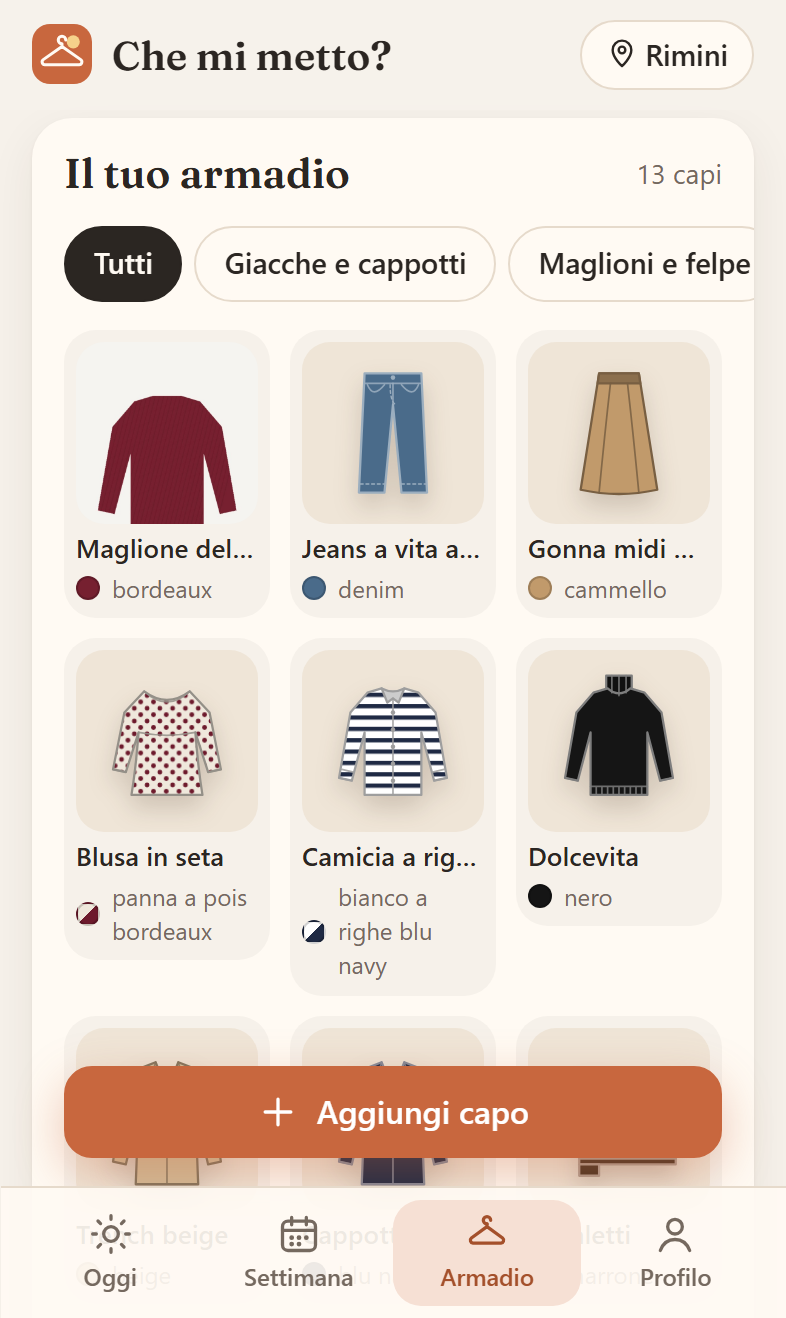
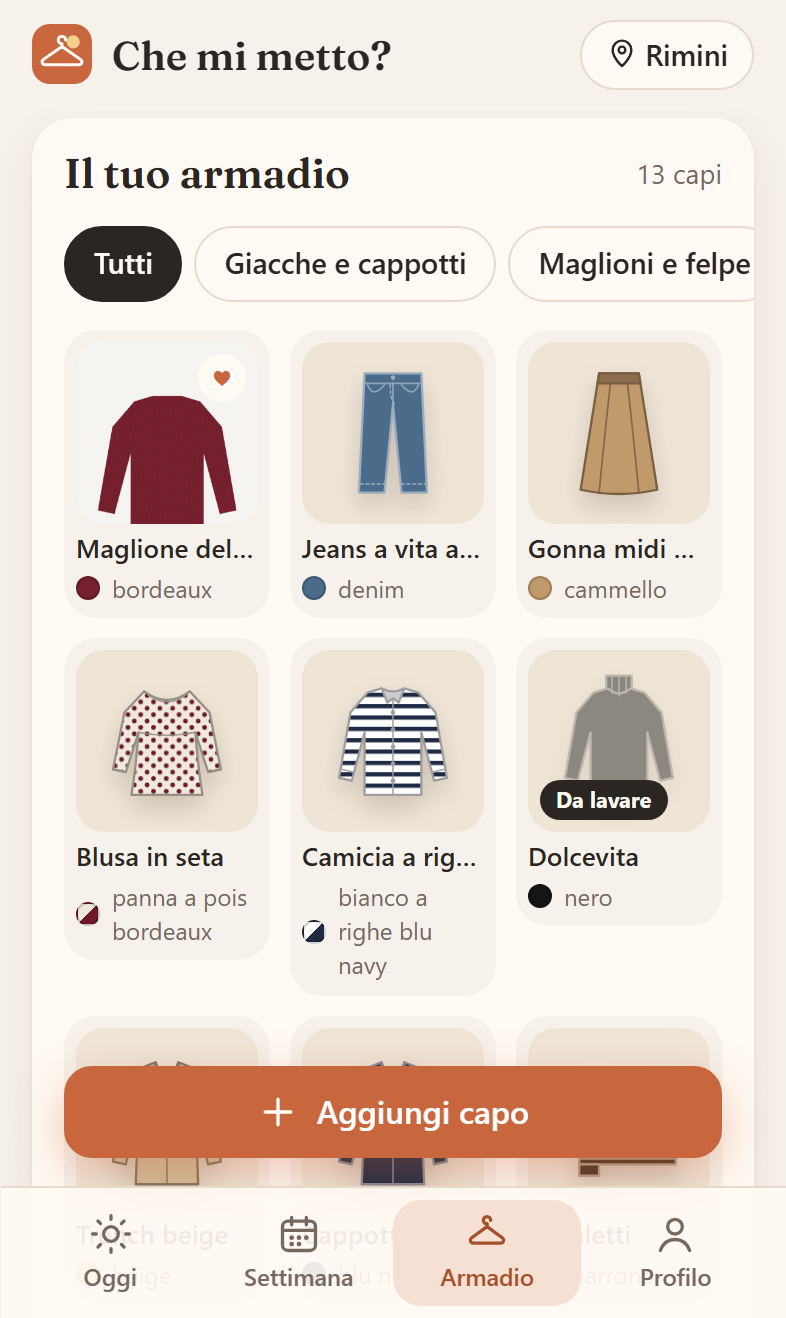
Documentazione: ispirazioni dai progetti open source e anteprime
- docs/ISPIRAZIONI.md: otto app open source studiate, licenze e idee adottate
- README aggiornato con le nuove regole del motore e le tre idee
- anteprime rigenerate

Changed region(s): [[0.6718, 0.4977, 0.855, 0.6222], [0.2748, 0.28, 0.3053, 0.3111]]

diff --git a/e2e/screenshot.spec.ts b/e2e/screenshot.spec.ts
@@ -36,12 +36,12 @@ const BACKUP = {
   esportato: `${OGGI}T09:00:00.000Z`,
   profilo: { genere: 'donna', sensibilita: 'normale', posizione: { nome: 'Rimini', lat: 44.06, lon: 12.57, origine: 'ricerca' } },
   capi: [
-    capo('maglione', '#762030', 'Maglione della nonna', ['casual', 'lavoro', 'appuntamento'], FOTO),
+    { ...capo('maglione', '#762030', 'Maglione della nonna', ['casual', 'lavoro', 'appuntamento'], FOTO), preferito: true, usi: 4 },
     capo('jeans', '#4a6b8a', 'Jeans a vita alta'),
     capo('gonna-lunga', '#c19a6b', 'Gonna midi plissé'),
     capo('blusa', '#efe8dc', 'Blusa in seta', undefined, undefined, { fantasia: 'pois', colore2: '#6d1a2c' }),
     capo('camicia', '#ffffff', 'Camicia a righe', ['casual', 'lavoro', 'aperitivo'], undefined, { fantasia: 'righe', colore2: '#1f2a44' }),
-    capo('dolcevita', '#151515'),
+    { ...capo('dolcevita', '#151515'), daLavare: true },
     capo('trench', '#d2bc98', 'Trench beige'),
     capo('cappotto', '#1f2a44'),
     capo('stivaletti', '#6b4a32'),
@@ -56,12 +56,12 @@ const BACKUP = {
   ],
 };
 
-async function foto(page: Page, nome: string) {
+async function foto(page: Page, nome: string, intera = false) {
   // Niente evidenziazioni rimaste dall'ultimo tocco.
   await page.evaluate(() => (document.activeElement as HTMLElement | null)?.blur());
   await page.mouse.move(0, 0);
   await page.waitForTimeout(300);
-  await page.screenshot({ path: `${CARTELLA}${nome}.png` });
+  await page.screenshot({ path: `${CARTELLA}${nome}.png`, fullPage: intera });
 }
 
 /** Porta l'elemento in cima allo schermo, appena sotto la testata. */
@@ -96,7 +96,7 @@ test('anteprime per il README', async ({ page }) => {
   await page.evaluate(() => localStorage.setItem('banner-installa-chiuso', '1'));
   await page.reload();
   await page.getByRole('heading', { name: 'Outfit per oggi' }).waitFor();
-  await mostraDallAlto(page, '.outfit');
+  await mostraDallAlto(page, '.idee');
   await foto(page, '10-idee-generiche');
 
   await caricaBackup(page);
@@ -108,7 +108,7 @@ test('anteprime per il README', async ({ page }) => {
   await page.getByRole('heading', { name: 'Outfit per oggi' }).waitFor();
   await foto(page, '02-oggi');
 
-  await mostraDallAlto(page, '.outfit');
+  await mostraDallAlto(page, '.idee');
   await foto(page, '03-outfit-armadio');
 
   await page.getByRole('link', { name: 'Settimana' }).click();
@@ -135,5 +135,5 @@ test('galleria delle sagome', async ({ page }) => {
   await page.setViewportSize({ width: 393, height: 820 });
   await page.goto('./galleria.html');
   await page.locator('svg').first().waitFor();
-  await foto(page, '09-sagome');
+  await foto(page, '09-sagome', true);
 });

diff --git a/README.md b/README.md
@@ -47,7 +47,12 @@ iPhone, senza passare dall'App Store.
 - 🎨 **Sagome disegnate a mano**: senza foto ogni capo è una sagoma SVG con il suo colore e, se vuoi, una fantasia
   (righe, quadri, pois, fiori) con un secondo colore. Nelle idee generiche l'app aggiunge da sola un capo fantasia
   adatto a stagione e occasione: fiori in primavera, quadri in autunno, niente fantasie in palestra.
-- 🔄 **"Altra idea"** per avere alternative, **sensibilità al freddo** personale (freddoloso / nella media / caloroso).
+- 🔄 **Tre idee diverse da sfogliare** per ogni giornata e ogni impegno ("La più adatta", "Più elegante", "Con fantasia"…),
+  più il pulsante **"Altre idee"**. Le idee vengono scelte perché si somiglino il meno possibile.
+- 👕 **Oltre 60 tipi di capi** per uomo e donna, dal gilet al parka, dalla tuta intera ai pantaloni palazzo, ognuno con un
+  livello di **formalità**: nello stesso outfit non finiscono mai capi che stonano.
+- ♥ **Preferiti, "da lavare" e "Lo metto oggi"**: i preferiti escono più spesso, i capi in lavatrice no, e quello che hai
+  messo oggi non te lo ripropone domani. **Sensibilità al freddo** personale (freddoloso / nella media / caloroso).
 - 📴 **Funziona offline** con le ultime previsioni salvate, **tema chiaro e scuro**, interfaccia pensata per il pollice.
 - 🔒 **Privacy**: nessun account e nessun server. Profilo, foto e impegni restano sul telefono; backup e ripristino con un
   file.
@@ -64,20 +69,26 @@ test.
    |---|---|---|
    | Gelo | < 3° | piumino, maglione, sciarpa, berretto, guanti |
    | Freddo | 3-9° | cappotto e maglione |
-   | Fresco | 9-15° | giacca o trench, a volte un maglioncino |
-   | Mite | 15-20° | strati leggeri, giacca per la sera |
+   | Fresco | 9-15° | felpa o maglione e una giacca |
+   | Mite | 15-20° | giacca leggera fino a 18°, maniche lunghe; giacca per la sera |
    | Tiepido | 20-25° | maniche corte o camicia |
    | Caldo | 25-30° | lino, gonne, bermuda, sandali |
    | Torrido | ≥ 30° | il minimo indispensabile, colori chiari |
 
-2. La fascia dice quali capi sono adatti per ogni parte dell'outfit; l'**occasione** li ordina per preferenza.
-3. **Pioggia, neve, vento, sole e sbalzi** di temperatura aggiungono correzioni: capi impermeabili, scarpe chiuse, ombrello,
-   occhiali, uno strato da togliere.
-4. Con l'**armadio** ogni capo riceve un punteggio (adatto all'occasione, ripara dalla pioggia, sta bene con i colori già
-   scelti); senza armadio si usa una **palette di stagione**, con al massimo un capo **fantasia** per outfit e un secondo
-   colore che stacca dal fondo.
-5. Ogni consiglio arriva con il **perché**: *"Percepiti 8°: fa freddo. Pioggia probabile (80%): capi che riparano, scarpe
+   Regole fisse: **maglione o felpa sotto i 15°**, **giacca fino a 18°**, **maniche corte da sole solo sopra i 18°**.
+2. La fascia dice quali capi sono adatti per ogni parte dell'outfit; l'**occasione** li ordina per preferenza. Ogni capo ha
+   una **formalità da 1 a 5** e non può allontanarsi di più di due gradini dagli altri capi scelti.
+3. **Pioggia, neve, vento, sole e sbalzi** di temperatura aggiungono correzioni: capi impermeabili, scarpe chiuse, ombrello
+   (pieghevole già dal 25% di pioggia), niente bermuda con il vento forte, occhiali, uno strato da togliere.
+4. Con l'**armadio** ogni capo riceve un punteggio: adatto all'occasione, ripara dalla pioggia, sta bene con i colori già
+   scelti, formalità coerente, preferito, non messo ieri; i capi da lavare sono esclusi. Senza armadio si usa una **palette
+   di stagione**, con al massimo un capo **fantasia** per outfit e un secondo colore che stacca dal fondo.
+5. Il motore genera nove varianti e ne tiene **tre il più possibile diverse** (somiglianza di Jaccard tra capi e colori).
+6. Ogni consiglio arriva con il **perché**: *"Percepiti 8°: fa freddo. Pioggia probabile (80%): capi che riparano, scarpe
    chiuse e ombrello."*
+
+Prima di scriverlo ho studiato il codice di otto app open source di outfit e armadio digitale: cosa ho imparato da ciascuna,
+con le licenze, è in [docs/ISPIRAZIONI.md](docs/ISPIRAZIONI.md).
 
 <p align="center">
   <img src="docs/screenshots/10-idee-generiche.png" width="24%" alt="Idea di outfit senza armadio, con un capo a fantasia" />
@@ -161,6 +172,8 @@ Ogni push su `main` passa dalla CI; se il repository è pubblico, il workflow
 - Dati meteo: [Open-Meteo.com](https://open-meteo.com/) (CC BY 4.0)
 - Nomi dei luoghi: © [OpenStreetMap](https://www.openstreetmap.org/copyright) contributors
 - Font: [Fraunces](https://fonts.google.com/specimen/Fraunces) (SIL Open Font License)
+- Idee per il motore da progetti open source, senza riusarne il codice: elenco e licenze in
+  [docs/ISPIRAZIONI.md](docs/ISPIRAZIONI.md)
 
 ## English summary
 
@@ -174,6 +187,10 @@ the day** (work, date, cocktails, formal event, gym) and, optionally, **your own
   type, colour and pattern (stripes, checks, polka dots, florals); hand-drawn SVG silhouettes take the item's colours and
   pattern when there is no photo.
 - Each event gets an outfit computed on the forecast **for that hour**; the gym gets a "pack in your bag" list.
+- **Three swipeable, deliberately different ideas** per day and per event: nine variants are generated and the three with
+  the lowest Jaccard similarity are kept. Each of 60+ garment types has a 1–5 **formality** level to keep outfits coherent.
+- Wardrobe extras inspired by open-source projects (see [docs/ISPIRAZIONI.md](docs/ISPIRAZIONI.md)): favourites, "in the
+  laundry" items excluded, and an "I'm wearing it today" button that tracks wear count and avoids repeats.
 - Privacy by design: no account, no server, everything stays in IndexedDB on the phone, with JSON backup/restore.
 - Works offline, light/dark theme, mobile-first UI tested on WebKit (Safari engine) with an iPhone viewport.
 - Stack: React 19, TypeScript, Vite, vite-plugin-pwa, Dexie, Vitest, Testing Library, Playwright, GitHub Actions, GitHub

diff --git a/docs/ISPIRAZIONI.md b/docs/ISPIRAZIONI.md
@@ -1,0 +1,40 @@
+# Da dove ho preso spunto
+
+Prima di scrivere il motore ho studiato il codice di alcune app open source che consigliano cosa indossare o gestiscono un
+armadio digitale. **Non ho copiato codice**: ho letto come ragionano e ho riscritto da zero, in TypeScript, le idee che mi
+sembravano più sensate. Le licenze qui sotto dicono cosa si può riusare; per i progetti AGPL o senza licenza ho preso solo
+spunti di design.
+
+| Progetto | Licenza | Cosa fa | Cosa ho imparato |
+|---|---|---|---|
+| [Anyesh/wardrowbe](https://github.com/Anyesh/wardrowbe) | MIT | Armadio digitale con suggerimenti: un pre-filtro a regole sceglie i capi, poi un modello linguistico compone l'outfit | Punteggio dei capi come prodotto di fattori (meteo × formalità × stagione × uso recente × preferenza), sensibilità al freddo, sbalzo di temperatura ≥ 8° da gestire con strati togliibili, intervalli di lavaggio, preferiti, "ultima volta indossato" |
+| [kamil-kucharski/vestiq](https://github.com/kamil-kucharski/vestiq) | MIT | Stylist a regole tutto sul dispositivo (Android) | Più varianti dello stesso giorno scelte con un **bonus di diversità** basato sulla somiglianza di Jaccard; regole strutturali (niente scarpe sportive in contesti formali, cravatta solo con la camicia) |
+| [lilja/clothes-by-weather](https://github.com/lilja/clothes-by-weather) | MIT | Piccola tabella meteo → vestiti | Soglie pratiche: maglione sotto i 15°, giacca leggera 15-18°, giacca pesante 5-15°, ombrello già dal 20-40% di pioggia, pantaloni lunghi con vento forte |
+| [mthaak/whatshouldiweartoday](https://github.com/mthaak/whatshouldiweartoday) | nessuna | App meteo per il tragitto casa-lavoro | Usare la temperatura **percepita** e il meteo delle **ore in cui sei fuori**, non la media del giorno |
+| [Paullitsc/Style-It-Yourself](https://github.com/Paullitsc/Style-It-Yourself) | AGPL-3.0 | Valutazione della coerenza di un outfit | Neutri che vanno con tutto (navy, beige, denim…), armonie per tonalità, penalità quando la formalità dei capi è troppo diversa |
+| [TracySteel/shimmer-strip](https://github.com/TracySteel/shimmer-strip) | nessuna | Generatore di outfit | Fasce climatiche con probabilità di uno strato in più, niente vestito con il freddo |
+| [googlarz/fashion-skill](https://github.com/googlarz/fashion-skill) | CC BY 4.0 | Regole di stile scritte per un assistente | Evitare di riproporre lo stesso outfit a breve distanza |
+| [Lazztech/Libre-Closet](https://github.com/Lazztech/Libre-Closet) | AGPL-3.0 | Armadio digitale PWA | Idee di interfaccia: più colori per capo, stato di lavaggio, archivio |
+
+## Cosa è entrato nell'app
+
+- **Soglie riviste** sulla temperatura percepita (corretta di ±3° per chi è freddoloso o caloroso):
+  maglione o felpa sotto i 15°, giacca leggera fino a 18°, maniche corte da sole solo sopra i 18°.
+- **Ombrello pieghevole "per sicurezza"** dal 25% di probabilità di pioggia; con vento forte niente bermuda.
+- **Formalità da 1 a 5** per ogni capo (dalla tuta alle décolleté): un capo non può essere più di due gradini lontano dalla
+  media di quelli già scelti, così non escono scarpe da corsa con il blazer.
+- **Tre idee diverse** per ogni giornata e ogni impegno: il motore genera nove varianti e ne tiene tre che si somigliano il
+  meno possibile (somiglianza di Jaccard), con un titolo che dice in cosa sono diverse ("Più elegante", "Con fantasia",
+  "Con la tuta intera"…).
+- **Armadio più furbo**: capi preferiti (+2 nel punteggio), capi "da lavare" esclusi, pulsante **"Lo metto oggi"** che conta
+  gli usi e fa variare le proposte dei due giorni seguenti.
+- **Catalogo più ricco**: gilet, parka, giacca di pelle, pantaloni cargo e di velluto, pantaloni palazzo, tuta intera, sandali
+  col tacco, cravatta, cappello di paglia.
+
+## Cosa ho aggiunto io
+
+- Nessuno dei progetti studiati considera l'**indice UV**: occhiali e cappello in base a UV e sole sono una regola mia.
+- Gli **impegni** (cena elegante, palestra…) con l'outfit calcolato sul meteo di quell'ora estendono l'idea del tragitto
+  casa-lavoro di whatshouldiweartoday: ogni impegno ha la sua occasione e la sua lista "in borsa".
+- Le **fantasie** (righe, quadri, pois, fiori) scelte in base a stagione e occasione e disegnate sulle **sagome SVG** fatte a
+  mano, al posto delle foto quando non ci sono.
